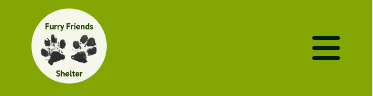
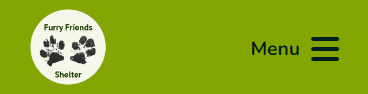
improve mobile hamburger menu and credits in code

diff --git a/assets/css/style.css b/assets/css/style.css
@@ -44,7 +44,14 @@ img {
 /* ==========================================================================
    Header styles
    ========================================================================== */
-/* mobile hamburger menu, inspiration from Kevin Powell https://codepen.io/kevinpowell/pen/jxppmr */
+.header-logo img {
+    height: 6rem;
+}
+
+/* mobile hamburger menu */
+/**
+* start of code adapted from Kevin Powell https://codepen.io/kevinpowell/pen/jxppmr
+*/
 header {
     background: var(--lightgreen);
     position: fixed;
@@ -52,10 +59,6 @@ header {
     z-index: 99;
     padding: 1rem 2rem;
     top: 0;
-}
-
-.header-logo img {
-    height: 6rem;
 }
 
 .nav-burger {
@@ -114,6 +117,26 @@ nav li {
     color: var(--darkgreen);
 }
 
+.nav-burger:checked~nav {
+    transform: scale(1, 1);
+}
+
+.nav-burger:checked~nav a {
+    opacity: 1;
+    transition: opacity 250ms ease-in-out 250ms;
+}
+
+/**
+* end of code adapted from Kevin Powell https://codepen.io/kevinpowell/pen/jxppmr
+*/
+
+.nav-burger-label span {
+    font-weight: bold;
+    font-size: 1.2rem;
+    font-family: 'Nunito', sans-serif;
+    margin-right: 0.7rem;
+}
+
 .cta-button {
     border: 2px solid var(--darkgreen);
     background: var(--darkgreen);
@@ -132,15 +155,6 @@ nav li {
 
 .nav-button.cta-button {
     margin: .5rem 0 2rem 0;
-}
-
-.nav-burger:checked~nav {
-    transform: scale(1, 1);
-}
-
-.nav-burger:checked~nav a {
-    opacity: 1;
-    transition: opacity 250ms ease-in-out 250ms;
 }
 
 /* hero */
@@ -306,7 +320,7 @@ section.help-container {
     border: 5px solid var(--lightgreen);
     padding: 1.5rem;
     margin-top: 0.5rem;
-    border-radius: 2rem;    
+    border-radius: 2rem;
     box-shadow: 3px 5px 10px 2px rgba(0, 0, 0, 0.2);
 }
 
@@ -563,6 +577,9 @@ section.gallery {
     }
 
     /* desktop menu */
+    /**
+    * start of code adapted from Kevin Powell https://codepen.io/kevinpowell/pen/jxppmr
+    */
     .nav-burger-label {
         display: none;
     }
@@ -604,10 +621,6 @@ section.gallery {
         position: relative;
     }
 
-    .nav-button.cta-button {
-        margin: 0;
-    }
-
     .nav-link::before {
         content: '';
         display: block;
@@ -627,6 +640,13 @@ section.gallery {
 
     .nav-button.active::before {
         transform: scale(1, 1);
+    }
+    /**
+    * end of code adapted from Kevin Powell https://codepen.io/kevinpowell/pen/jxppmr
+    */
+
+    .nav-button.cta-button {
+        margin: 0;
     }
 
     /* desktop hero */

diff --git a/contact.html b/contact.html
@@ -26,6 +26,7 @@
         <a href="index.html" class="header-logo" aria-label="link to Home page">
             <img src="assets/images/logo.png" alt="Furry Friends Shelter Logo links to homepage">
         </a>
+        <!-- hamburger menu adapted from Kevin Powell (https://codepen.io/kevinpowell/pen/jxppmr) -->
         <input type="checkbox" id="nav-burger" class="nav-burger">
         <nav>
             <ul class="nav-wrapper">
@@ -40,7 +41,7 @@
             </ul>
         </nav>
         <label for="nav-burger" class="nav-burger-label">
-            <i class="fa-solid fa-bars fa-2xl"></i>
+            <span>Menu</span><i class="fa-solid fa-bars fa-2xl" aria-hidden="true"></i>
         </label>
     </header>
     <section class="hero-container hero-smaller">

diff --git a/dogs.html b/dogs.html
@@ -26,6 +26,7 @@
         <a href="index.html" class="header-logo" aria-label="link to Home page">
             <img src="assets/images/logo.png" alt="Furry Friends Shelter Logo links to homepage">
         </a>
+        <!-- hamburger menu adapted from Kevin Powell (https://codepen.io/kevinpowell/pen/jxppmr) -->
         <input type="checkbox" id="nav-burger" class="nav-burger">
         <nav>
             <ul class="nav-wrapper">
@@ -41,7 +42,7 @@
             </ul>
         </nav>
         <label for="nav-burger" class="nav-burger-label">
-            <i class="fa-solid fa-bars fa-2xl"></i>
+            <span>Menu</span><i class="fa-solid fa-bars fa-2xl" aria-hidden="true"></i>
         </label>
     </header>
     <section class="hero-container hero-smaller">

diff --git a/friend.html b/friend.html
@@ -26,6 +26,7 @@
         <a href="index.html" class="header-logo" aria-label="link to Home page">
             <img src="assets/images/logo.png" alt="Furry Friends Shelter Logo links to homepage">
         </a>
+        <!-- hamburger menu adapted from Kevin Powell (https://codepen.io/kevinpowell/pen/jxppmr) -->
         <input type="checkbox" id="nav-burger" class="nav-burger">
         <nav>
             <ul class="nav-wrapper">
@@ -40,7 +41,7 @@
             </ul>
         </nav>
         <label for="nav-burger" class="nav-burger-label">
-            <i class="fa-solid fa-bars fa-2xl"></i>
+            <span>Menu</span><i class="fa-solid fa-bars fa-2xl" aria-hidden="true"></i>
         </label>
     </header>
     <section class="hero-container hero-smaller">

diff --git a/index.html b/index.html
@@ -26,6 +26,7 @@
         <a href="index.html" class="header-logo" aria-label="link to Home page">
             <img src="assets/images/logo.png" alt="Furry Friends Shelter Logo links to homepage">
         </a>
+        <!-- hamburger menu adapted from Kevin Powell (https://codepen.io/kevinpowell/pen/jxppmr) -->
         <input type="checkbox" id="nav-burger" class="nav-burger">
         <nav>
             <ul class="nav-wrapper">
@@ -38,7 +39,7 @@
             </ul>
         </nav>
         <label for="nav-burger" class="nav-burger-label">
-            <i class="fa-solid fa-bars fa-2xl"></i>
+            <span>Menu</span><i class="fa-solid fa-bars fa-2xl" aria-hidden="true"></i>
         </label>
     </header>
     <section class="hero-container">

diff --git a/README.md b/README.md
@@ -69,6 +69,7 @@ After choosing my colors and fonts I wanted to make a simple Logo for my website
 
 ### **Header**
 To follow my mobile-first approach I started by looking at tutorials on how to implement a hamburger menu without JS. I found a video with the according [Codepen](https://codepen.io/kevinpowell/pen/jxppmr) from Kevin Powell. I used the information from the video and example code in the Codepen for my navigation.
+To improve accessibility I added **Menu** as a text alternative and used `aria-hidden` on the hamburger icon.
 
 ![Mobile Header](assets/docs/screenshots/header_mobile.png)
 
